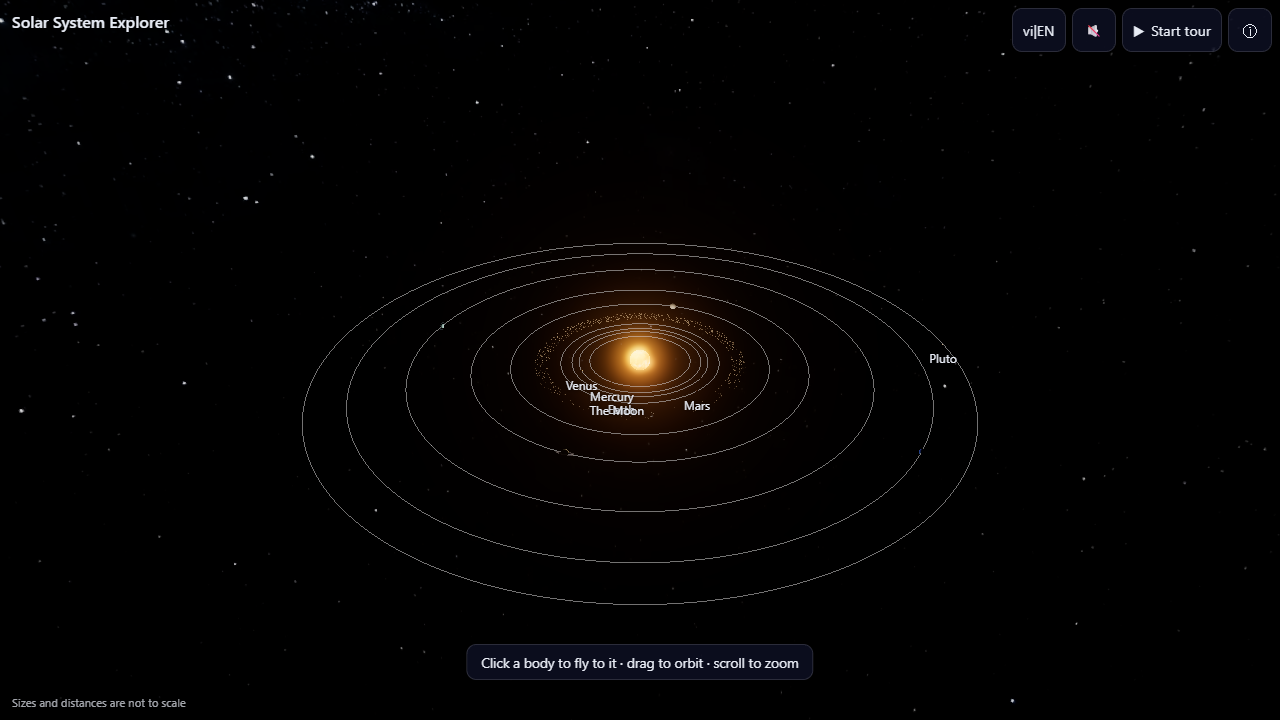
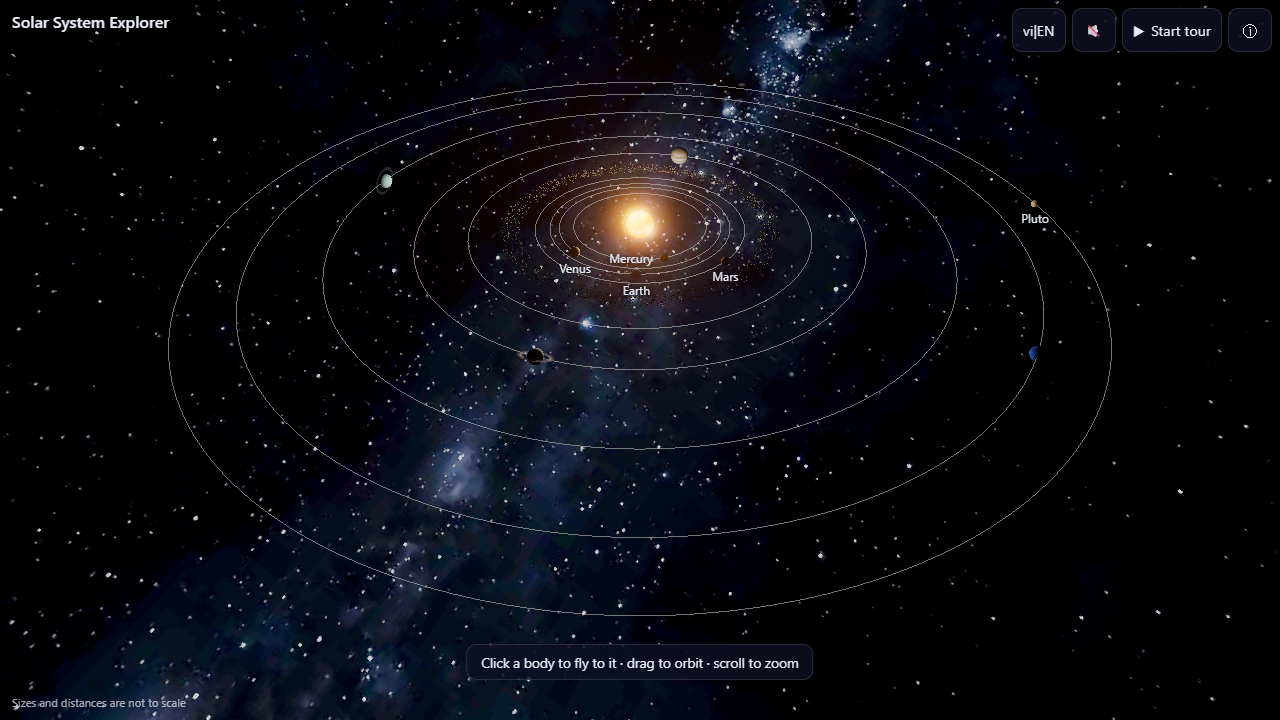
docs(t28b): refresh screenshots, resolve visual known issues, record progress

diff --git a/docs/progress/t28b.md b/docs/progress/t28b.md
@@ -1,0 +1,40 @@
+# T28b: Overview polish (planet visibility, labels, Milky Way, mobile tour dock)
+
+## Status
+Done (pending review).
+
+## Summary
+Follow-up polish (controller-added) for the four open visual problems from the Task 28 review, which block the spec goal "đẹp, dễ thấy hết".
+- (A) Planet visibility. `src/camera/framing.ts`: `overviewFrame()` fits the projected, tilted orbit disc (Pluto orbit + 10) inside `OVERVIEW_SAFE_NDC` {x 1, y 0.78} and returns a vertical NDC shift that centres the disc (the near rim projects larger); the rig applies it as an overview view offset. Desktop 1280x720 overview distance 561 instead of 740 (bounding-sphere fit). `overviewPolar()` looks down at 45 degrees on portrait (60 on landscape), which spreads the inner orbits. `overviewBoost()` is a screen-space minimum size: a body of display radius r is drawn at least `OVERVIEW_MIN_BODY_PX` (5, in `src/config/scale.ts`) x sqrt(r / r_earth) CSS px in radius, capped at `OVERVIEW_MAX_BOOST` (8); size order is kept and the factor drops to 1 as the camera closes in, so a focused body is never enlarged. `solarSystem.applyOverviewBoost(camera, viewH)` (called every frame) scales each body's tilt group, grows the pick proxy with it, keeps the Saturn ring-shadow radius in step, and hides the Moon (and moves its proxy to an unpicked layer) while a boosted Earth would cover its orbit.
+- (B) Labels. `src/ui/labelLayout.ts` `placeLabels(items, discs, viewW)`: greedy, in priority order (hovered, Earth, Jupiter, Saturn, Mars, Venus, Mercury, Uranus, Neptune, Pluto, Sun, Moon), tries below / above / right / left of the projected (boosted) disc, drops a label that would overlap a placed label or cover another body, and keeps labels inside the view. `src/ui/labels.ts` measures each label once per text change and uses it every frame; no label for a hidden Moon.
+- (C) Milky Way. `src/scene/sky.ts` now uses a small `ShaderMaterial`: linear texel minus a black point (the 1-2/255 WebP noise of empty space), x gain 14, soft shoulder to 0.6 (`SKY_TONE`, CPU mirror `skyTone()`), so the band reads clearly, empty space stays black and no star reaches the 0.85 bloom threshold (the Sun stays the only blooming, brightest element). The sphere is tilted 60.2 degrees about z (the real galactic plane to ecliptic angle; a tilt about x put a stretched texture pole in the overview) and turned -22 degrees about y so the band crosses the default overview on both layouts.
+- (D) Mobile tour. While a tour is active on a phone: peek sheet 22 dvh, dock 24 px above it, disclaimer just above the sheet; the dock wraps the caption (0.85 rem) above one row with the icon-only unmute button (`.ctl-label` collapses below 768 px, `aria-label` keeps the name) and the tour controls. `rig.setTourMode()` (driven by `store.tour.status` in `main.ts`) uses `focusFill('mobile', true)` 0.3 and `focusScreenOffset('mobile', true)` y 0.38, so the body sits in the band between the top bar and the dock. Desktop is unchanged.
+- Picking. Enlarged proxies of neighbouring inner planets can overlap on a phone, so the picker takes the front-most hit whose visible disc (`userData.shownRadius`) contains the tap, else the proxy centred closest to the ray relative to its size.
+- `docs/KNOWN_ISSUES.md`: the four entries are marked resolved. `docs/screenshots/*.png` refreshed with `npm run test:visual`.
+
+## Verification
+- TDD: new tests watched red first: `framing.test.ts` (overviewFrame, overviewPolar, tour framing, overviewBoost), `labelLayout.test.ts`, `sky.test.ts`, `solarSystem.test.ts` (overview boost, Moon hiding, proxy and ring shadow), `cameraRig.test.ts` (tour mode), `picker.test.ts` (overlapping proxies, label declutter with stubbed sizes), `tourUi.test.ts` (collapsible unmute label). Two rig tests changed intent legitimately: the overview now carries a vertical view offset (asserted to equal `overviewFrame().offsetY`) instead of none.
+- Ad-hoc screenshots (preview on port 4184, SwiftShader) were iterated before refreshing `docs/screenshots/`.
+- Before: desktop overview planets 1-2 px dots, labels Mercury/Venus/Earth/Moon stacked around the Sun, starfield only; iPhone tour: dock covered Venus almost completely.
+- After (`npm run test:visual`, 4 passed in 8.3 min; PNGs opened and checked):
+  - desktop-overview / desktop-vi-overview: every planet visible as a textured disc (Jupiter bands, Saturn and Uranus rings, blue Neptune, Pluto dot, inner planets 6-10 px); labels Mercury, Venus, Earth, Mars, Pluto (vi: Sao Thủy, Sao Kim, Trái Đất, Sao Hỏa, Sao Diêm Vương) with no overlap; the Milky Way band crosses the view diagonally behind the orbits; the Sun is still the brightest element (only it blooms).
+  - iphone13-overview / iphone13-vi-overview: all orbits to Pluto fit the width at a 45-degree view; all planets visible; labels Jupiter, Venus, The Sun, Earth, Mars, Saturn, Uranus, Neptune, Pluto with no overlap (Mercury and the Moon dropped by the declutter); the band crosses the upper half.
+  - iphone13-tour-subtitle: Venus (about 110 px) fully visible between the top bar and the compact dock (3-line caption above one row: unmute icon, prev, pause, next, "Stop 4 of 14", exit), disclaimer and the 22 dvh sheet below.
+  - desktop-tour-subtitle and all focus views (sun, earth, saturn, jupiter, pluto, sheet-expanded, credits): unchanged layout; bodies at true display size (no boost when focused), Saturn ring shadow intact.
+- E2E (only the related specs, one run at a time): `flows.spec.ts`, `picking.spec.ts`, `select.spec.ts` on pixel7: 7 passed (2.1 min; an earlier flows run before the picker fix had 1 flaky pass of the Mars tap). `picking.spec.ts`, `select.spec.ts`, `tour.spec.ts` on desktop: 7 passed, 1 flaky ("tour controls ... canvas drag pauses": `mouse.move` hit the 60 s timeout under software GL after the tour had already paused, passed on retry; a known load flake).
+- `npm run lint` clean, `npm run typecheck` clean, `npm test` 458 passed (33 files).
+- Budget: JS 186.6 KB gzip (limit 800 KB); no new dependencies, no new assets. (`npm run check:budget` points at `scripts/check-budget.mjs`, which does not exist on main yet.)
+
+## Decisions
+- DECISION: (A) combine a closer, disc-fitted overview (view offset centres the disc, sun slightly above screen centre) with a screen-space minimum body size instead of changing the display-scale formulas; the minimum scales with sqrt(radius) so the spec's "relative size order" is kept.
+- DECISION: the boost scales each body's tilt group (sphere, clouds, atmosphere, rings) and is purely distance-based, so it never applies to a focused body and fades smoothly during flights.
+- DECISION: the Moon is hidden in far views while Earth's and the Moon's shown radii exceed 0.8 x the Moon's orbit (it would sit inside the boosted Earth); it reappears when the camera is near Earth.
+- DECISION: portrait overview polar 45 degrees (landscape stays 60): still oblique (spec 3.1), and the taller ellipse leaves room for inner planets and labels; the phone zoom is width-limited either way.
+- DECISION: label priority puts the Sun and the Moon last (the Sun is unmistakable); on desktop the label set stays "small planets + hovered" per spec 3.1, only decluttered.
+- DECISION: sky tone constants live in `src/scene/sky.ts` (not a quality number, the same in every tier); the high (4096) and low (2048) sky maps have the same brightness statistics, so one curve serves both.
+- DECISION: the sky tilt is about z plus a -22 degree yaw, chosen from screenshots so the band crosses both default overviews.
+- DECISION: mobile tour peek sheet 22 dvh shows the title, subtitle and back button; the expanded sheet is unchanged (88 dvh).
+- DECISION: picking prefers the visible disc under the tap; every proxy carries `userData.shownRadius` (true radius by default, boosted radius in far views).
+
+## Review
+pending

diff --git a/docs/KNOWN_ISSUES.md b/docs/KNOWN_ISSUES.md
@@ -10,26 +10,30 @@ Entry format (copy this block, do not use a `## ` heading for the template):
     Tried: <what was attempted>
     Status: <open | blocked | resolved>
 
-## Mobile tour stop: subtitles dock covers the focused planet
+## Mobile tour stop: subtitles dock covers the focused planet (resolved)
 Task: 28 (carried over from 26)
 Symptom: on a phone during a tour stop the dock (unmute hint, subtitles, tour controls, about 190 px) fills most of the 50 dvh above the peek sheet, so the planet (centred at about 27 % of the height, about 190 px wide) is almost fully covered (see `docs/screenshots/iphone13-tour-subtitle.png`, Venus). Non-tour focus views are fine.
 Tried: analysed `focusScreenOffset` (y 0.45) and the CSS dock; a larger offset alone cannot help because the free band above the dock is only about 40-100 px. A real fix needs a tour-aware mobile layout (shorter peek sheet during the tour, compact subtitles, tour-specific smaller `fill` and offset passed to the rig), which is more than the 30 min budget and needs several screenshot rounds.
-Status: open
+Fix: fixed in t28b: during a tour on a phone the peek sheet is 22 dvh, the dock is compact (caption above one row with an icon-only unmute button and the tour controls) and the rig uses `focusFill('mobile', true)` 0.3 and `focusScreenOffset('mobile', true)` y 0.38, so the body sits fully in the band between the top bar and the dock (`docs/screenshots/iphone13-tour-subtitle.png`).
+Status: resolved
 
-## Milky Way band not visible in the sky
+## Milky Way band not visible in the sky (resolved)
 Task: 28
 Symptom: the overview and focus screenshots show a starfield with only a faint cloud texture; no clear Milky Way band.
 Tried: reviewed screenshots only (sky brightness is a tuning change, not a quick fix).
-Status: open
+Fix: fixed in t28b: the committed sky maps are very dark (band texels 3-10 of 255) and the band lay along the horizon just above the downward-looking overview. `src/scene/sky.ts` now uses a shader with a black point, gain and a soft shoulder below the bloom threshold (`SKY_TONE`), and tilts the sphere 60.2 degrees about z (the real galactic-ecliptic angle) plus a -22 degree turn, so the band crosses the overview on desktop and phone.
+Status: resolved
 
-## Overview labels overlap near the Sun
+## Overview labels overlap near the Sun (resolved)
 Task: 28
 Symptom: in the overview the Mercury, Venus, Earth and Moon labels (and "The Sun" on mobile) overlap around the Sun; they are not readable until the user zooms in.
 Tried: not attempted (needs label collision logic).
-Status: open
+Fix: fixed in t28b: `placeLabels` (`src/ui/labelLayout.ts`, unit-tested) places labels in priority order below/above/right/left of each projected disc and drops one that would overlap another label or cover another body; the Moon label only shows when the Moon is shown.
+Status: resolved
 
-## Overview planets are only 1-2 px dots
+## Overview planets are only 1-2 px dots (resolved)
 Task: 28
 Symptom: at overview (desktop 1280x720 and iPhone 13) every planet is a 1-2 px dot on a thin orbit ring; textures and sizes are not discernible, so the "beautiful, easy to see everything" overview goal is not met (see `docs/screenshots/desktop-overview.png`). Only the Sun and the labels are visible.
 Tried: reviewed screenshots only (needs a larger overview display size for bodies or a closer overview camera).
-Status: open
+Fix: fixed in t28b: `overviewFrame` fits the projected orbit disc (desktop camera at 561 instead of 740 units, 1.3x closer), portrait looks down at 45 degrees, and `overviewBoost` draws each far body at least `OVERVIEW_MIN_BODY_PX * sqrt(r / r_earth)` px in radius (size order kept, never applied near the camera).
+Status: resolved
